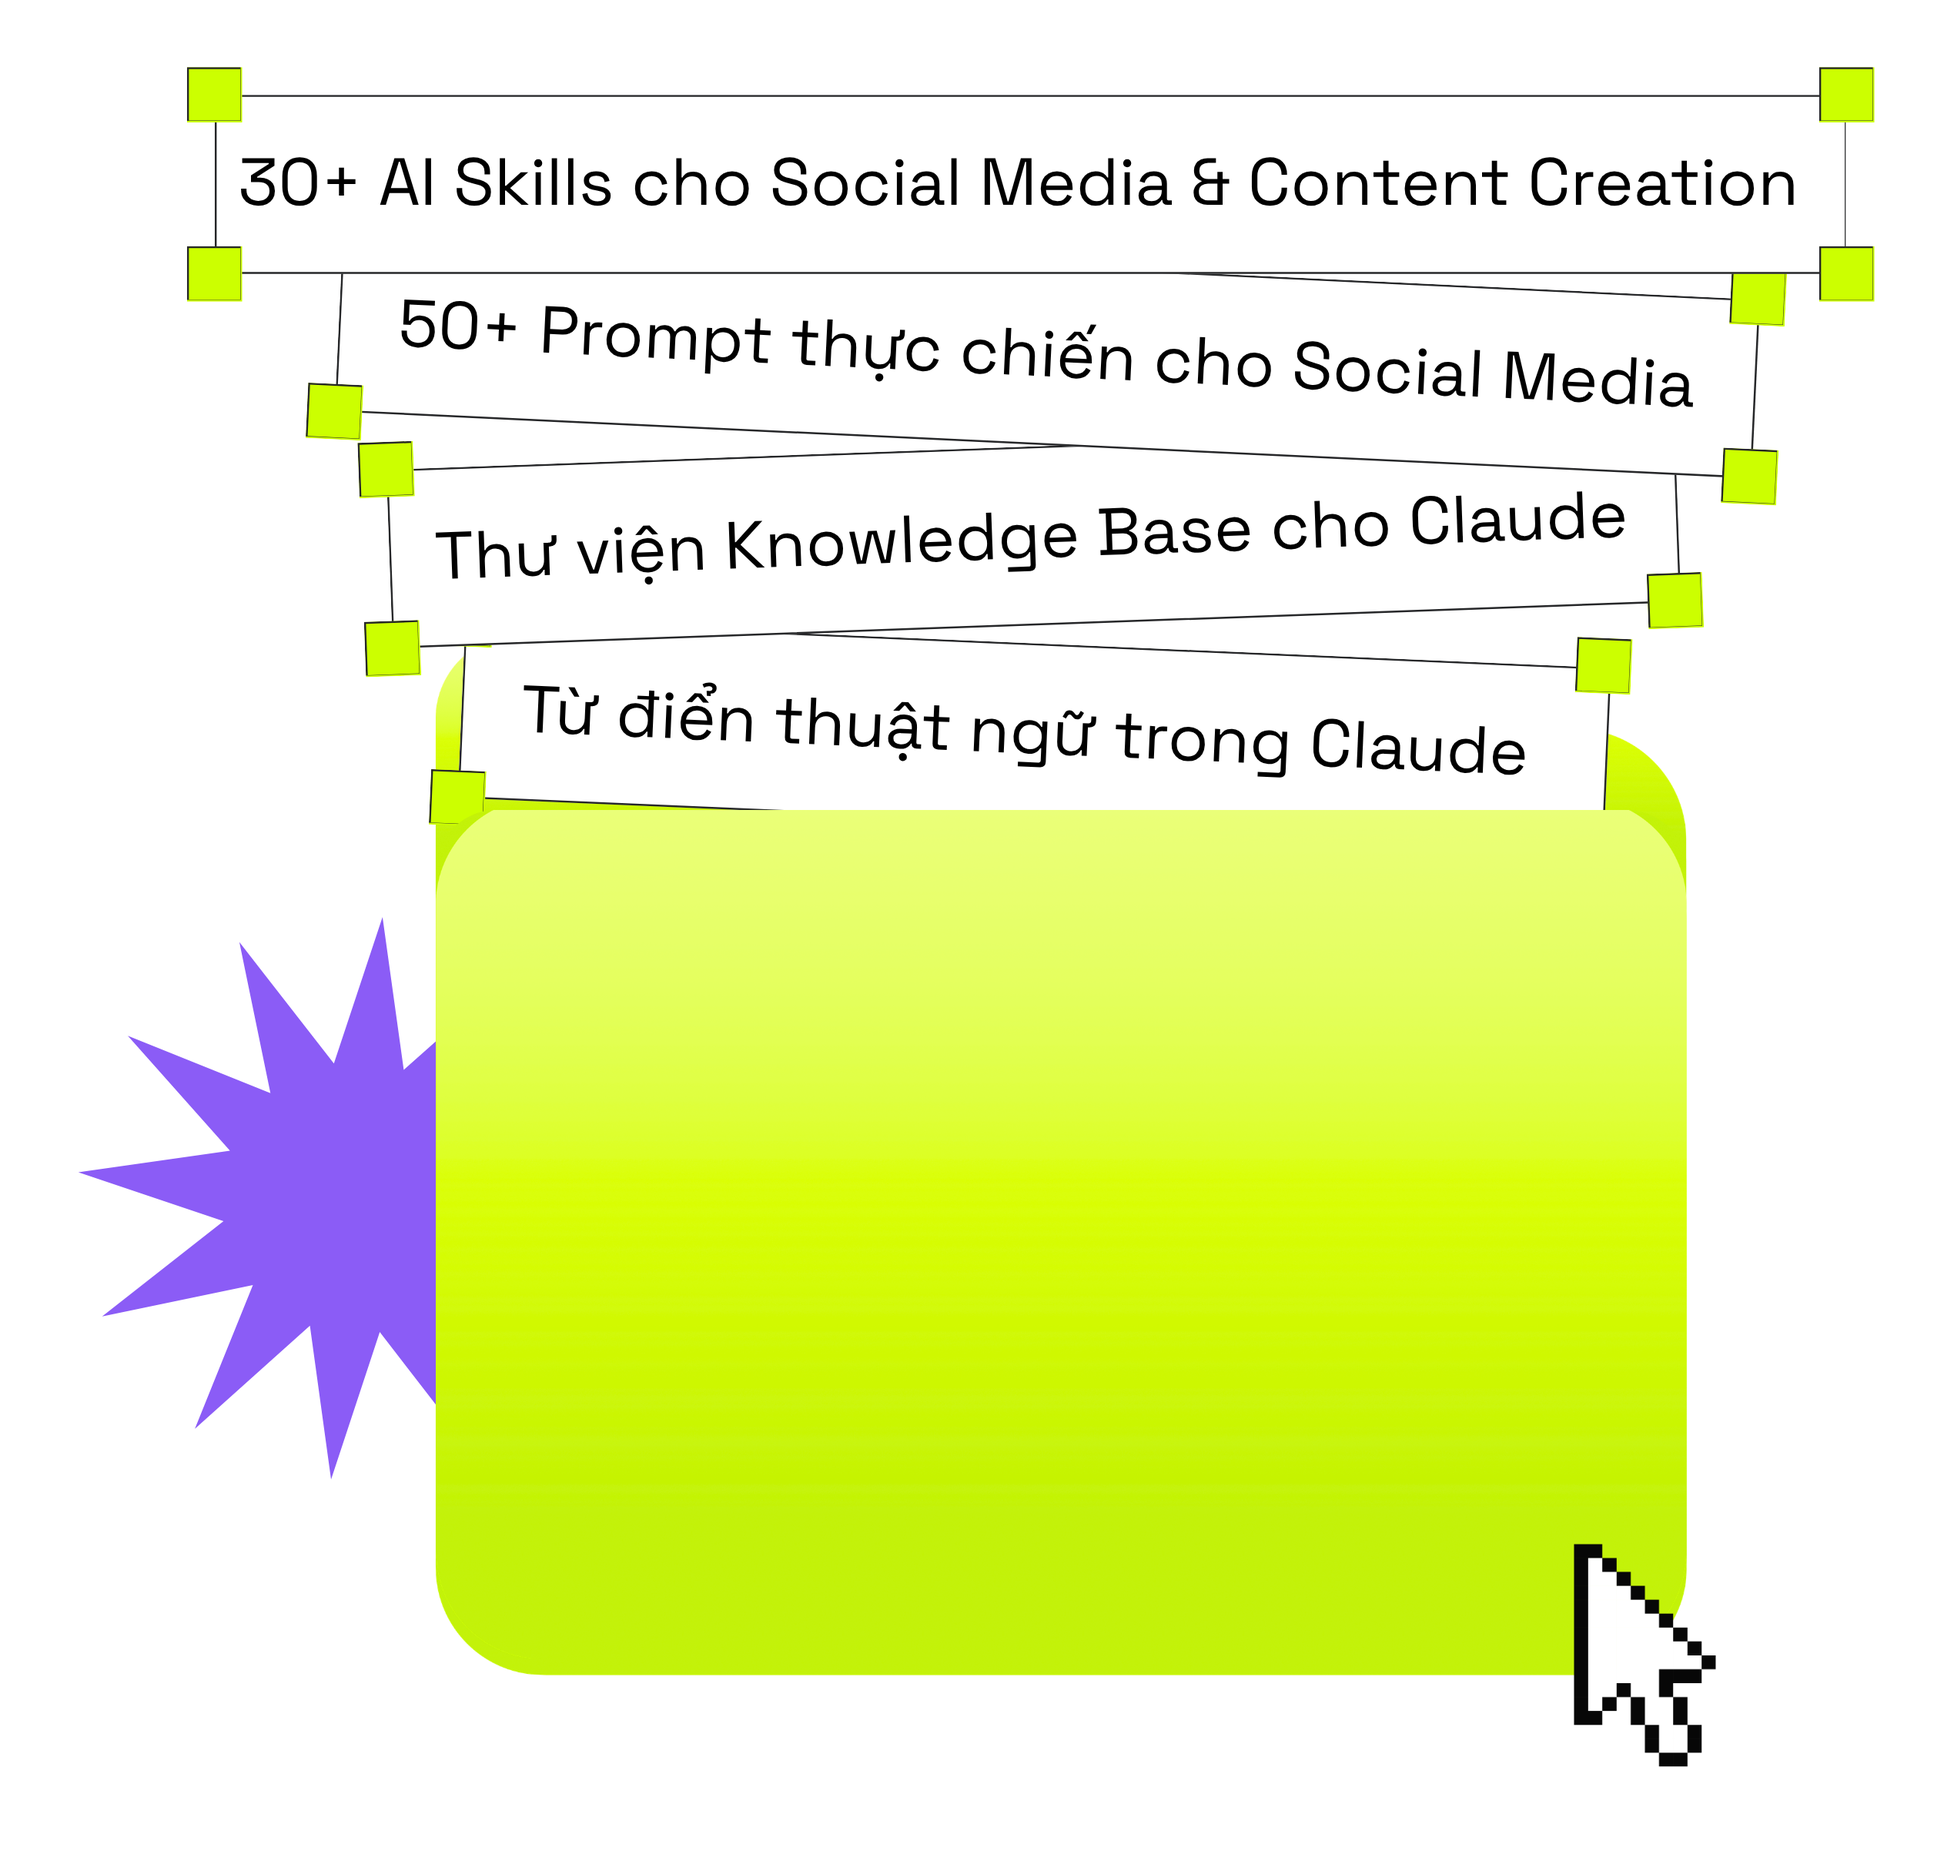
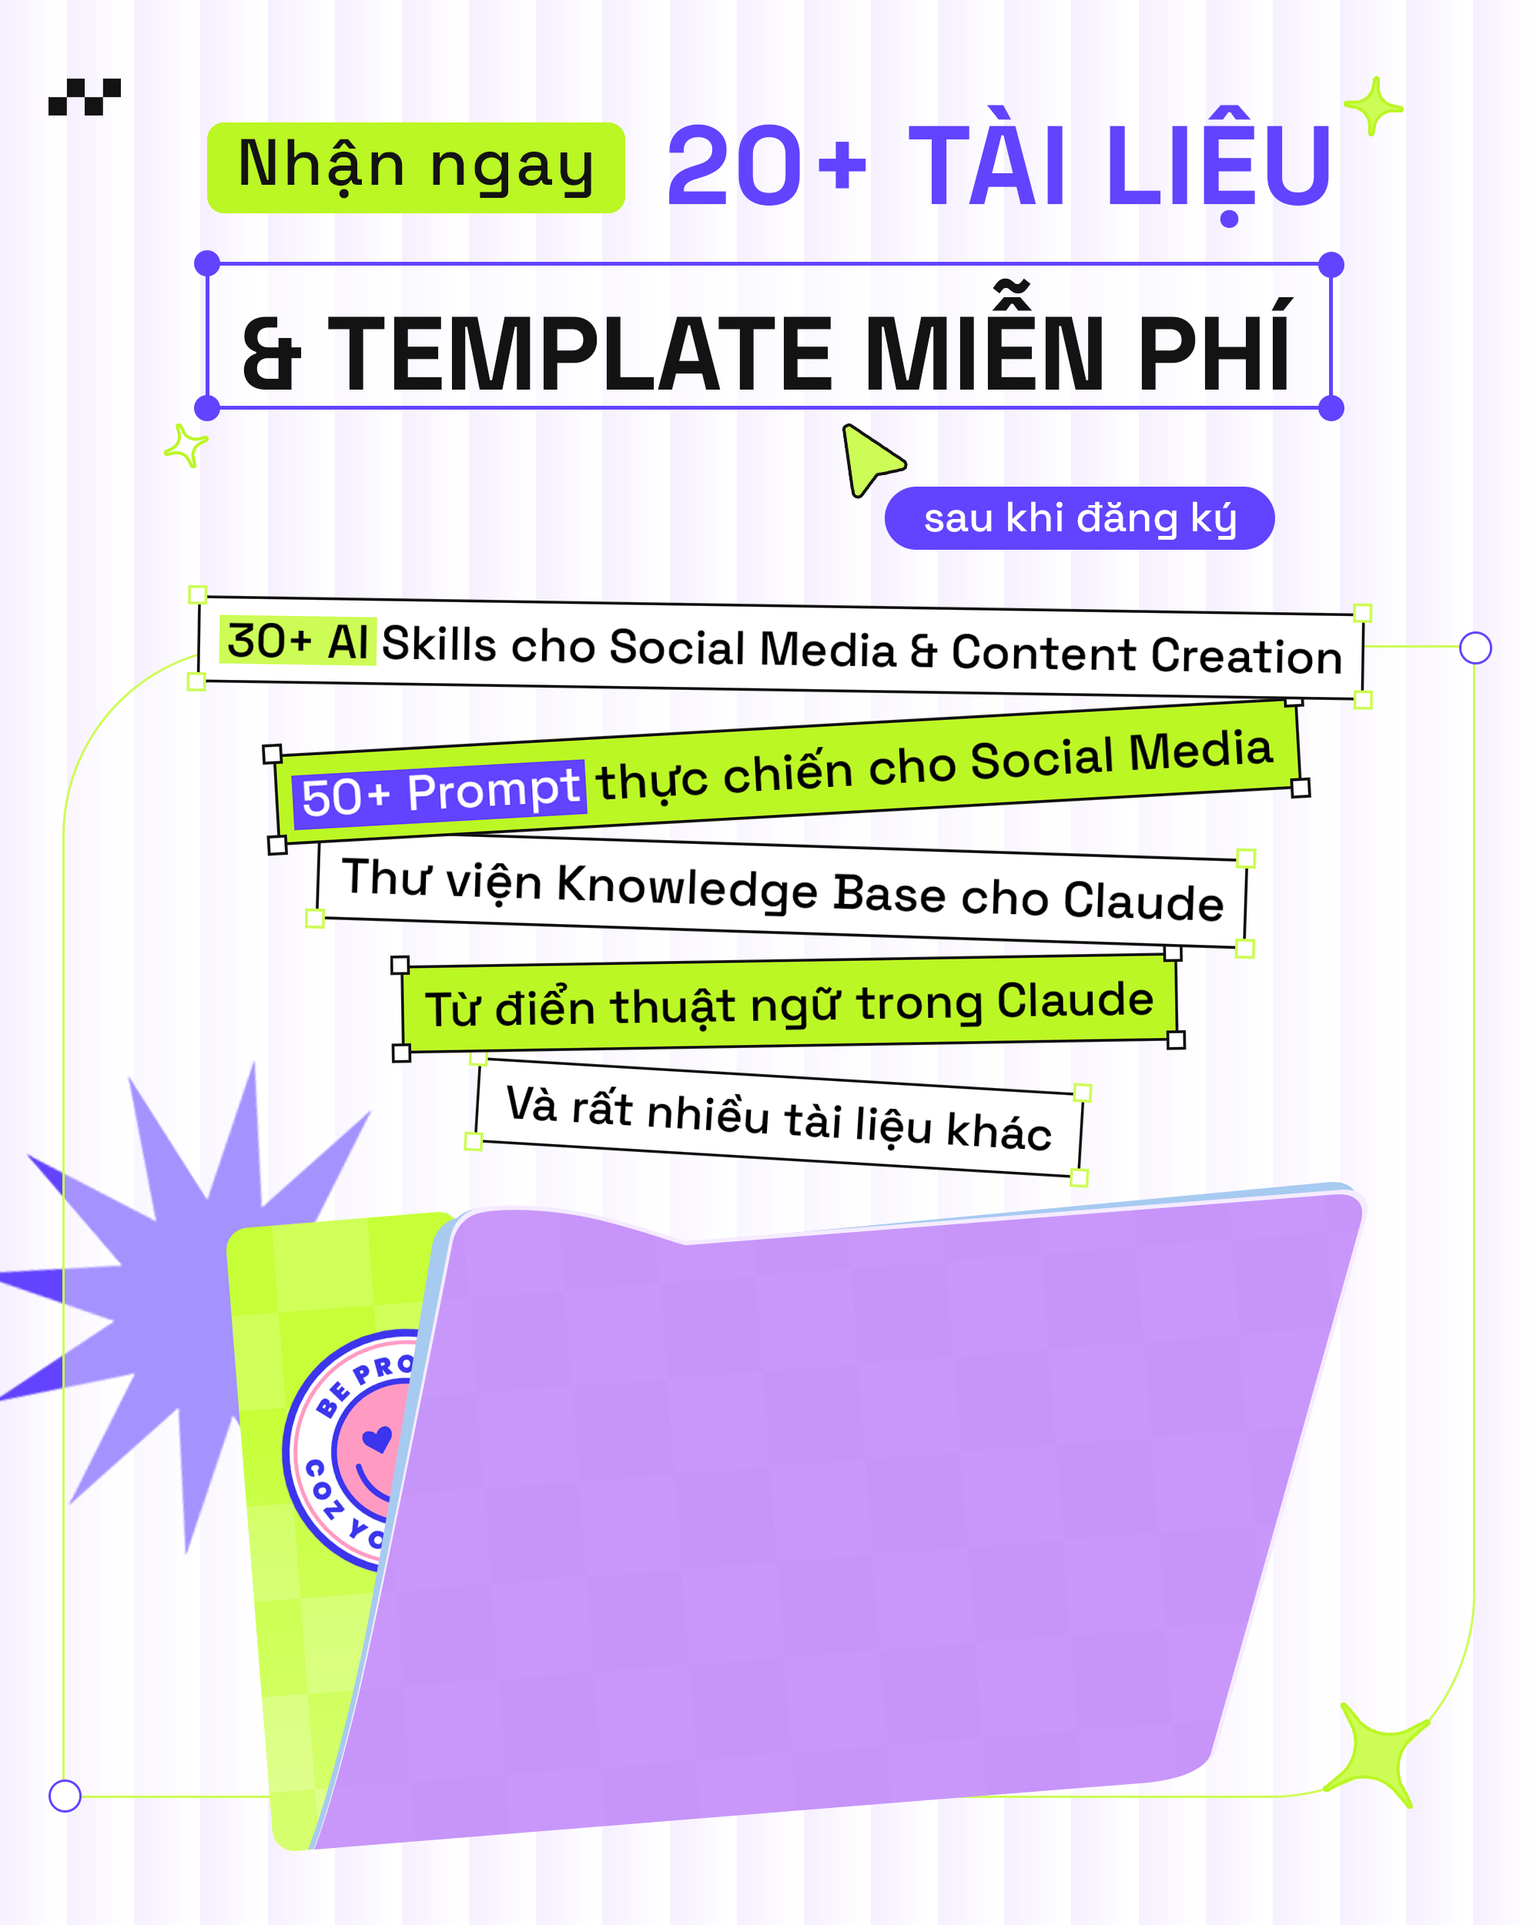
update 30

diff --git a/components/ui/PurchaseModal.tsx b/components/ui/PurchaseModal.tsx
@@ -1,8 +1,8 @@
 "use client";
 
-import { useEffect, useMemo, useState, type FormEvent } from "react";
+import { useEffect, useMemo, useRef, useState, type FormEvent } from "react";
 import { createPortal } from "react-dom";
-import { useSelector } from "react-redux";
+import { useSelector, useStore } from "react-redux";
 import { useRouter } from "next/navigation";
 import type { RootState } from "@/redux/store";
 import { useCreatePaymentLinkMutation, usePaymentFreeMutation } from "@/redux/features/checkout/checkoutApi";
@@ -54,7 +54,10 @@ export function PurchaseModal({ product, open, onClose }: PurchaseModalProps) {
   const [getCouponByName, { isLoading: isApplyingCoupon }] = useGetCouponMutation();
   const [loadUserById] = useLoadUserByIdMutation();
   const apiCoupon = useSelector((state: RootState) => state.coupon.coupon);
-  const paymentLink = useSelector((state: RootState) => state.checkout.paymentLink);
+
+
+  const store = useStore<RootState>();
+  const submitLock = useRef(false);
 
   useEffect(() => { setMounted(true); }, []);
   useEffect(() => {
@@ -110,7 +113,8 @@ export function PurchaseModal({ product, open, onClose }: PurchaseModalProps) {
 
   const handleSubmit = async (event: FormEvent<HTMLFormElement>) => {
     event.preventDefault();
-    if (!product || isSubmitting) return;
+    if (!product || submitLock.current) return;
+    submitLock.current = true;
     const order = {
       product: product.id,
       amount: total,
@@ -125,17 +129,66 @@ export function PurchaseModal({ product, open, onClose }: PurchaseModalProps) {
         await loadUserById({});
         setSubmitMessage("Đã mở khóa tài liệu thành công.");
         onClose();
-      } else {
-        const response = await createPaymentLink(order).unwrap();
-        const result = response as { checkoutUrl?: string; data?: { checkoutUrl?: string } };
-        const url = result?.checkoutUrl ?? result?.data?.checkoutUrl ?? paymentLink?.checkoutUrl;
-        console.log(url)
-        if (!url) throw new Error("Chưa nhận được liên kết thanh toán. Vui lòng thử lại.");
-        window.location.assign(url);
+      } const previousLink = store.getState().checkout.paymentLink;
+
+      const response = await createPaymentLink(order).unwrap();
+
+      const result = response as {
+        checkoutUrl?: string;
+        data?: { checkoutUrl?: string };
+      };
+
+      let url = result?.checkoutUrl ?? result?.data?.checkoutUrl;
+
+      if (!url) {
+        url = await new Promise<string>((resolve, reject) => {
+          let unsubscribe: (() => void) | undefined;
+          let timer: ReturnType<typeof setTimeout> | undefined;
+          let finished = false;
+
+          const cleanup = () => {
+            unsubscribe?.();
+            if (timer) clearTimeout(timer);
+          };
+
+          const check = () => {
+            if (finished) return;
+
+            const nextLink = store.getState().checkout.paymentLink;
+
+            if (
+              nextLink &&
+              nextLink !== previousLink &&
+              nextLink.checkoutUrl &&
+              nextLink.checkoutUrl !== previousLink?.checkoutUrl
+            ) {
+              finished = true;
+              cleanup();
+              resolve(nextLink.checkoutUrl);
+            }
+          };
+
+          unsubscribe = store.subscribe(check);
+
+          timer = setTimeout(() => {
+            finished = true;
+            cleanup();
+            reject(
+              new Error(
+                "Chưa nhận được liên kết thanh toán. Vui lòng thử lại."
+              )
+            );
+          }, 10000);
+
+          check();
+        });
       }
+
+      window.location.assign(url);
     } catch (error) {
       setSubmitMessage(error instanceof Error ? error.message : errorMessage(error));
     } finally {
+      submitLock.current = false;
       setIsSubmitting(false);
     }
   };
@@ -219,7 +272,7 @@ export function PurchaseModal({ product, open, onClose }: PurchaseModalProps) {
 
                 {product.originalPrice &&
                   product.originalPrice >
-                    product.price && (
+                  product.price && (
                     <del>
                       {formatVND(
                         product.originalPrice,
@@ -252,7 +305,7 @@ export function PurchaseModal({ product, open, onClose }: PurchaseModalProps) {
           {/* COUPON */}
 
           {product.charge !== false && <div className="purchase-modal-block">
-        
+
             <div className="purchase-modal-coupon">
               <input
                 type="text"
@@ -284,11 +337,10 @@ export function PurchaseModal({ product, open, onClose }: PurchaseModalProps) {
 
             {couponMessage && (
               <p
-                className={`purchase-modal-coupon-message ${
-                  activeCoupon
+                className={`purchase-modal-coupon-message ${activeCoupon
                     ? "is-success"
                     : "is-error"
-                }`}
+                  }`}
               >
                 {couponMessage}
               </p>

diff --git a/components/sections/Navbar.tsx b/components/sections/Navbar.tsx
@@ -164,7 +164,11 @@ export function Navbar({
               >
                 {label}
               </a>
+        
             ))}
+            {
+                  user && <a href="/collections">Tài liệu của bạn</a>
+            }
           </nav>
 
           <div className="nav-right">
@@ -188,8 +192,8 @@ export function Navbar({
                 </button>
                 {accountOpen && (
                   <div className="nav-account-menu" role="menu" aria-label="Tài khoản">
-                    <a role="menuitem" href={transactionHistoryHref} onClick={() => setAccountOpen(false)}>Lịch sử giao dịch</a>
-                    <a role="menuitem" href={collectionHref} onClick={() => setAccountOpen(false)}>Bộ sưu tập</a>
+                    {/* <a role="menuitem" href={transactionHistoryHref} onClick={() => setAccountOpen(false)}>Lịch sử giao dịch</a> */}
+                    <a role="menuitem" href={collectionHref} onClick={() => setAccountOpen(false)}>Tài liệu của bạn</a>
                     <button type="button" role="menuitem" onClick={handleLogout} disabled={loggingOut}>
                       {loggingOut ? "Đang đăng xuất..." : "Đăng xuất"}
                     </button>
@@ -290,8 +294,8 @@ export function Navbar({
                 )}
                 <span className="nav-account-name">{displayName}</span>
               </div>
-              <a href={transactionHistoryHref} onClick={() => setMenuOpen(false)}>Lịch sử giao dịch</a>
-              <a href={collectionHref} onClick={() => setMenuOpen(false)}>Bộ sưu tập</a>
+              {/* <a href={transactionHistoryHref} onClick={() => setMenuOpen(false)}>Lịch sử giao dịch</a> */}
+              <a href={collectionHref} onClick={() => setMenuOpen(false)}>Tài liệu của bạn</a>
               <button type="button" onClick={handleLogout} disabled={loggingOut}>
                 {loggingOut ? "Đang đăng xuất..." : "Đăng xuất"}
               </button>

diff --git a/styles/claude-ai-mastery.css b/styles/claude-ai-mastery.css
@@ -1406,14 +1406,14 @@
   height: 60%;
 }
 
-@media (hover: none) {
+/* @media (hover: none) {
   .claude-intro-video__playpause {
     opacity: 1;
     pointer-events: auto;
 
     transform: translate(-50%, -50%) scale(1);
   }
-}
+} */
 
 /* ============================================================
      HILLS
@@ -5134,6 +5134,9 @@
   width: 100%;
   height: 100%;
   object-fit: contain;
+  border:1px solid var();
+  border-radius: 20px;
+  overflow: hidden;
 }
 
 
@@ -5148,7 +5151,7 @@
     min(100%,
       525px);
 
-  height: 430px;
+  height: 700px;
 
   margin-inline: auto;
 
@@ -5816,7 +5819,7 @@
 
   .claude-benefits-resources {
     width: 550px;
-    height: 450px;
+    height: 550px;
   }
 
   .claude-benefits-resources__list {

diff --git a/components/sections/About.tsx b/components/sections/About.tsx
@@ -36,7 +36,7 @@ export function About() {
           </p>
 
           <p className="lead" data-rv="up" data-dl="210">
-            Hiện tại, mình là Founder của <strong> QCC Mastery Hub</strong>, nơi
+            Hiện tại, mình là Founder của <strong>QCC Mastery - Social Creative Agency</strong>, nơi
             mình hệ thống hóa những kinh nghiệm và bài học thực tế từ quá trình
             làm nghề thành các tài liệu, công cụ và sản phẩm có thể áp dụng trực
             tiếp vào công việc.

diff --git a/components/courses/ClaudeAiMastery/ClaudeAIMasteryBenefitsSection.tsx b/components/courses/ClaudeAiMastery/ClaudeAIMasteryBenefitsSection.tsx
@@ -72,7 +72,7 @@ const benefits: Benefit[] = [
   {
     title: "THAM GIA CỘNG ĐỒNG SOCIAL MEDIA",
     description:
-      "Tham gia cộng đồng 3,000+ thành viên cùng học hỏi và thực chiến Social Media.",
+      "Tham gia cộng đồng 6,000+ thành viên cùng học hỏi và thực chiến Social Media.",
     icon: <CommunityIcon />,
   },
   {
